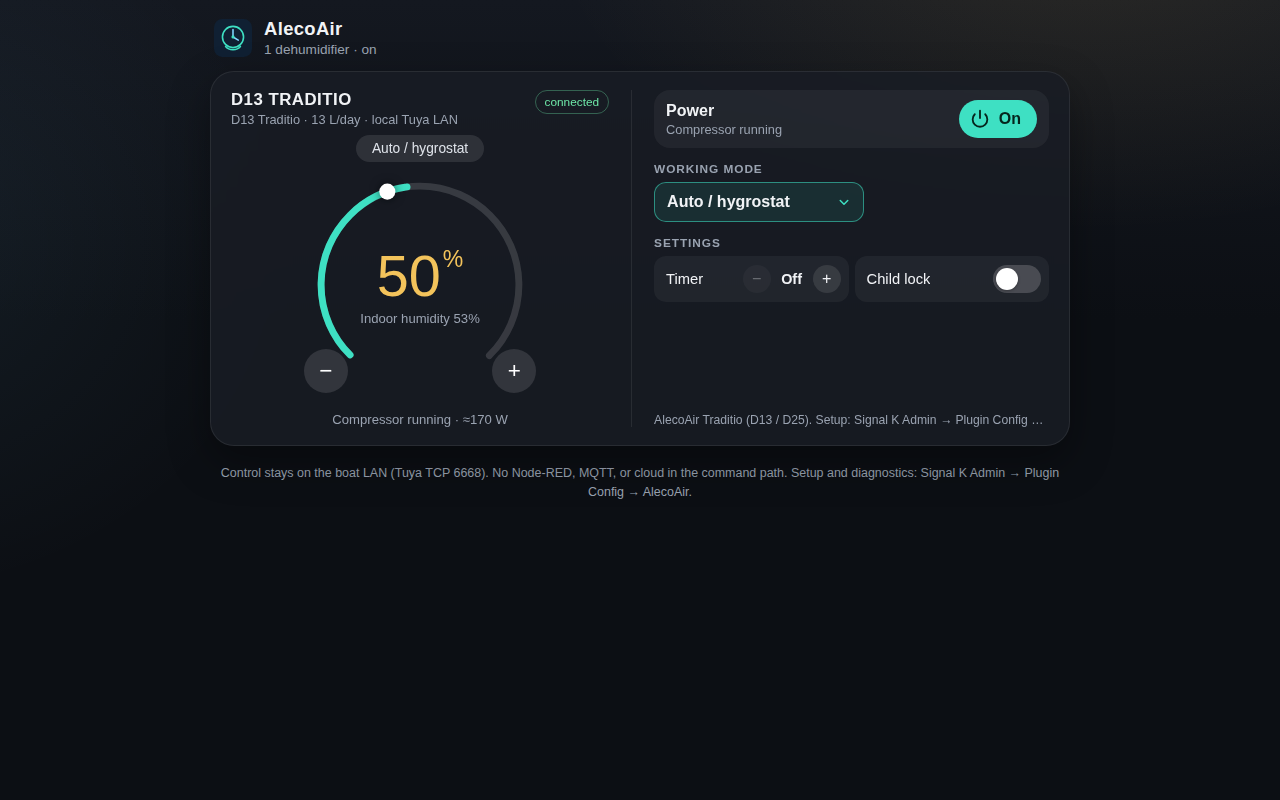
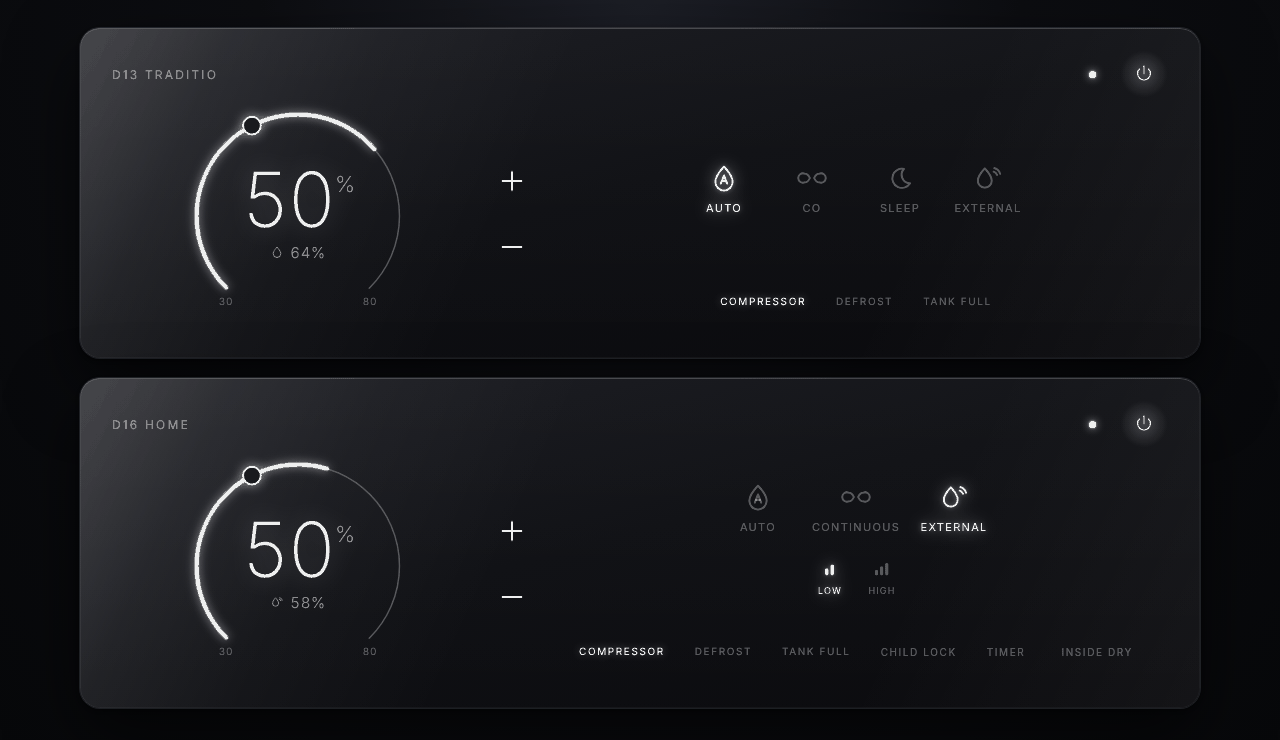
release: 0.0.4 (README, CHANGELOG, new screenshots, version 0.0.4)
- package.json, package-lock.json, openapi.json: 0.0.4
- CHANGELOG: 0.0.4 (2026-11-13), all changes since 0.0.3
- README: new card (gauge, -/+, mode buttons incl. External, status text,
  message line), External control (separate target, restart hand-back),
  Show child lock / timer, D13 off-timer without countdown
- Screenshots: WebApp desktop + phone, Admin setup + External control
- Admin: 'tap External in the mode buttons' instead of the old menu wording
- Comments/test name: no more references to the unpublished 0.1.0 drafts

diff --git a/public/remoteEntry.js b/public/remoteEntry.js
@@ -232,7 +232,7 @@
     function ExternalControl(props) {
       var d = props.device
       var ext = Object.assign({}, EXT_DEFAULTS, d.externalControl || {})
-      // One sensor per unit; a list from an earlier 0.1.0 draft keeps its first path.
+      // One sensor per unit; a list from an earlier development draft keeps its first path.
       if (!ext.humidityPath && Array.isArray(ext.humidityPaths)) ext.humidityPath = ext.humidityPaths.filter(Boolean)[0] || ''
       delete ext.humidityPaths
       delete ext.combine
@@ -251,7 +251,7 @@
         h('div', { className: 'fw-semibold small mb-1' }, 'External control'),
         h('p', { className: 'small text-muted mb-2' },
           'Drive this unit from another Signal K humidity sensor: the plugin puts the unit in its continuous mode (CO on the Traditio) and switches it on and off around the target you set in the WebApp. ',
-          'Allow it here, then pick \u201cAuto / external sensor\u201d in the unit\u2019s working-mode menu in the WebApp (or PUT ', h('code', null, d.paths.prefix + '.control.mode'), ' = external). Picking any other mode returns to the unit\u2019s own control.'),
+          'Allow it here, then tap \u201cExternal\u201d in the unit\u2019s mode buttons in the WebApp (or PUT ', h('code', null, d.paths.prefix + '.control.mode'), ' = external). Picking any other mode returns to the unit\u2019s own control.'),
         h(Check, { id: 'ext-' + d.key, label: 'Allow external control', checked: ext.enabled, onChange: function (v) { set('enabled', v) } }),
         ctl && ctl.configured ? h('div', { className: 'small mb-2 ' + (ctl.mode === 'external' ? 'text-success' : 'text-muted') },
           'Now: ', ctl.mode === 'external' ? 'external' : 'unit hygrostat',

diff --git a/plugin/control.js b/plugin/control.js
@@ -61,7 +61,7 @@ function cleanPath(p) {
 /** Normalize the per-device "External control" options. */
 function normalizeControlConfig(raw) {
   const c = raw && typeof raw === 'object' ? raw : {}
-  // One sensor per unit. Older 0.1.0 drafts kept a list (humidityPaths): keep its first path.
+  // One sensor per unit. Earlier development drafts kept a list (humidityPaths): keep its first path.
   let humidityPath = cleanPath(c.humidityPath)
   if (!humidityPath) {
     const list = Array.isArray(c.humidityPaths) ? c.humidityPaths : String(c.humidityPaths || '').split(',')
@@ -238,7 +238,7 @@ class ExternalController {
     return this.target
   }
 
-  /** Keep a persisted target on the unit's step and range (e.g. one saved by 0.1.0 before snapping). */
+  /** Keep a persisted target on the unit's step and range (e.g. one saved by an earlier draft before snapping). */
   snapTarget(unit) {
     if (this.target === null) return
     const next = this.snapValue(this.target, unit)

diff --git a/test/control.test.js b/test/control.test.js
@@ -432,7 +432,7 @@ test('restart: the controller\'s power choice and last switch time are persisted
   assert.equal(r.tick().status.state, 'waiting', 'minimum off time counts from the switch before the restart')
 })
 
-test('persisted state from 0.1.0 without power: the unit\'s current power is kept', () => {
+test('persisted state from an earlier draft without power: the unit\'s current power is kept', () => {
   const r = harness({}, { mode: 'external', target: 50, saved: { mode: 'auto', targetHumidity: 50 } }, { mode: 'continuous', targetHumidity: 25, power: true })
   r.humidity(50)
   assert.deepEqual(r.tick().commands, [])

diff --git a/README.md b/README.md
@@ -7,7 +7,7 @@ Signal K plugin and WebApp for AlecoAir Wi-Fi dehumidifiers over Tuya LAN: sever
 - **Setup only in Signal K Admin**, in the plugin's own configurator: **Apps & Plugins → Configuration → AlecoAir dehumidifiers**.
 - **The WebApp is for use only**: control and monitoring at `http://<signalk>:3000/signalk-alecoair/`.
 
-> Version 0.1.0 (unreleased), an early release: only the D13 Traditio has been verified on a real unit. Pure Node.js: no Python or other system packages.
+> Version 0.0.4, an early release: only the D13 Traditio has been verified on a real unit. Pure Node.js: no Python or other system packages.
 
 - **External sensor control** (optional, per unit): the plugin can drive a unit from another Signal K humidity sensor, with its own target, hysteresis and minimum on/off times. See [External sensor control](#external-sensor-control).
 
@@ -20,9 +20,13 @@ This plugin was developed with Grok Bot.
 
 The WebApp is for day-to-day control. All setup is in Signal K Admin.
 
-![AlecoAir WebApp](./docs/screenshots/webapp.png)
+![AlecoAir WebApp on a desktop](./docs/screenshots/webapp.png)
+
+<img src="./docs/screenshots/webapp-phone.png" alt="AlecoAir WebApp on a phone" width="320">
 
 ![Plugin setup in Signal K Admin](./docs/screenshots/admin-setup.png)
+
+![External control and WebApp options of a unit in Signal K Admin](./docs/screenshots/admin-external.png)
 
 ## Supported models
 
@@ -115,10 +119,16 @@ The setup panel is a Signal K plugin configurator (`signalk-plugin-configurator`
 
 Open `http://<signalk>:3000/signalk-alecoair/` (also listed under **Webapps** in Signal K Admin). Every configured unit gets its own card, stacked one under another; `?device=<key>` scrolls to a given unit. The look is inspired by the AlecoAir app, not a copy of it.
 
-Each card shows the unit's real modes for its profile and only the controls the unit actually reports: power, working mode, target humidity, timer, child lock and so on. The D13 Traditio has no fan control, so none is shown for it. Child lock and timer are hidden on the card by default; tick **Show child lock in UI** / **Show timer in UI** for a unit in Admin → Plugin Config → AlecoAir to show them. These checkboxes only change the WebApp: the Signal K paths and PUT handlers stay as they are.
+Each card shows the unit's real modes for its profile and only the controls the unit actually reports. The D13 Traditio has no fan control, so none is shown for it.
 
-- **Phone / narrow screens (< 960 px):** a compact card per unit with the mode, the humidity ring and −/+ for the target, and a bottom bar (Power, Mode, Fan if present, Settings). Mode, Fan and Settings open a bottom sheet.
-- **Desktop (≥ 960 px):** one wide card per unit, stacked vertically. Left: name, status, humidity ring and −/+. Right: Power, the working mode as a dropdown (with fan speed on the same row if the unit has a fan) and the settings in a fixed two-column area. All cards have the same height whatever the model, so units line up and an odd number of units leaves no stray card. Alerts (tank full, defrost, unit not responding) can still make a card taller while they are active.
+- **Gauge (left):** a 270° arc. The thin track is the unit's range (30–80% on the Traditio), the brighter arc goes up to the current humidity, and the knob is the target. Tap or drag on the arc, or use **−** / **+** next to it, to change the target in the unit's own steps (5%). The big number in the centre is the target (`CO` in continuous mode); the small one below it is the current humidity, with a droplet for the unit's own sensor or an antenna for the external sensor.
+- **Working modes (right):** one icon button per mode, e.g. **Auto**, **CO**, **Sleep** and, when external control is allowed for the unit, **External**. The fan speed (**Low** / **High**) sits under the modes if the unit has a fan.
+- **Status:** text labels under the modes: **Compressor**, **Defrost**, **Tank full** (red when full) and, where the unit has them, **Sleep** and **Inside dry**. Bright = active, dim = inactive. **Child lock** and **Timer** are hidden by default; tick **Show child lock in UI** / **Show timer in UI** for a unit in Admin → Plugin Config → AlecoAir to show them. These checkboxes only change the WebApp: the Signal K paths and PUT handlers stay as they are. Child lock, timer, sleep and inside dry can be tapped; the timer opens a small − / + stepper.
+- **Message line:** under the status, one line per card for errors, an unreachable unit, a full tank, defrost or an external-sensor warning. It never moves the layout: one line on a desktop (the full text is in the tooltip), two lines on a phone. If the WebApp loses the plugin, a toast appears at the top of the page.
+- **Power** is the button at the top right of the card; the dot next to it is the LAN connection (white = connected, red = not answering).
+- **Desktop:** the gauge is at the same place on every card, the modes are centred in the rest of the card, and the status line is level with the bottom of the gauge, so cards of different models line up. **Phone (< 760 px):** gauge, − / +, modes, fan, status and message are stacked and centred.
+
+Cards are built once and only updated on refresh (every 2 s), so nothing flickers. A tap shows at once; − / + and the arc send one command once the taps stop.
 
 UI labels are in English.
 
@@ -134,8 +144,9 @@ How it works:
 - **Change on the unit:** if the unit's power, mode or target is changed by anything other than the controller (the unit's buttons, the AlecoAir app, the WebApp power button or −/+ of the unit, a Signal K PUT), external control switches off at once. The unit is left exactly as it is: nothing is restored and no command is sent, and the WebApp shows the unit's real mode again. Pick **Auto / external sensor** again to resume.
 - **Sensor lost:** when no fresh value has arrived for 5 min (adjustable), the plugin either gives the unit back its own hygrostat (previous mode and target, power on; the default) or switches it off. It takes over again when the sensor is back.
 - **Temperature (optional):** with a temperature path, the unit is not started below a minimum temperature (default 5 °C) and is stopped when it gets that cold; it restarts 1 °C above the minimum.
+- **Separate target.** External control has its own target, shown on the gauge while **External** is selected. It is kept between sessions and is independent of the unit's own hygrostat target, which comes back when you pick Auto again.
 - After a restart the controller picks up where it was: same target, the same on/off choice (the unit is put back to it if the plugin stop restored the hygrostat) and the minimum on/off time counted from the last switch.
-- Switching external control off (or turning it off in Admin) restores the unit's own mode and target and switches it on. When the plugin stops while external control is on, the "sensor lost" choice is applied; after a restart, external control resumes with the same target.
+- Switching external control off (or turning it off in Admin) restores the unit's own mode and target and switches it on. When the plugin stops while external control is on (a Signal K restart or a plugin update), the "sensor lost" choice is applied, so with the default the unit briefly runs on its own hygrostat; after the restart, external control resumes with the same target and on/off choice within a few seconds.
 - A profile without a continuous mode (D16 Purify) uses the lowest hygrostat target the unit accepts plus power on/off instead. Set the external target above that minimum.
 - Values this plugin publishes itself are never used as the external sensor, so a unit's humidity published as cabin humidity cannot feed back.
 
@@ -145,7 +156,7 @@ Setting it up:
 2. **Humidity path**: pick the sensor's Signal K path from the list (paths with "humidity" that the server has seen, with their current value and source) or type one, e.g. `environment.inside.relativeHumidity`. Signal K publishes relative humidity as a ratio 0–1; a percentage (any value above 1.5) is detected too. Each unit uses exactly one sensor; several units may use the same one.
 3. Optional: **Temperature path** (Kelvin, as Signal K publishes it) and the minimum temperature.
 4. Adjust the hysteresis, minimum times, the stale timeout and what to do when the sensor is lost, or keep the defaults. **Save configuration**.
-5. In the WebApp, pick **Auto / external sensor** in the unit's working-mode menu (the Mode sheet on a phone, the working-mode dropdown on a desktop). The entry is there only while external control is allowed in Admin. While it is on, the menu shows it as the selected mode, even though the unit itself is in CO. Picking any other mode (Auto / hygrostat, Continuous, Sleep) leaves external control and sets that mode with the remembered target, power on. The ring shows the external humidity (the unit's own reading is shown below it, smaller), −/+ change the controller target in the unit's own hygrostat steps and range (5% steps, 30–80% on the Traditio; a target set over the API or Signal K is snapped the same way), and a status line says what the controller is doing: running, idle, waiting (minimum time), defrost, sensor missing, too cold or tank full. Hovering the status line shows the reason.
+5. In the WebApp, tap **External** in the unit's mode buttons. The button is there only while external control is allowed in Admin. While it is on, **External** is the lit mode, even though the unit itself is in CO. Tapping any other mode (Auto, CO, Sleep) leaves external control and sets that mode with the unit's remembered hygrostat target, power on. The gauge shows the external humidity (antenna icon); − / + and the arc change the controller target in the unit's own hygrostat steps and range (5% steps, 30–80% on the Traditio; a target set over the API or Signal K is snapped the same way). The **External** button's tooltip says what the controller is doing (running, idle, waiting for the minimum time, defrost, sensor missing, too cold, tank full) and why; problems such as a missing sensor also appear on the card's message line.
 
 The same can be done from Signal K: `PUT <prefix>.control.mode` = `external` or `internal`, and `PUT <prefix>.control.target` (ratio, e.g. `0.55`). `PUT <prefix>.mode` = `external` also switches it on, and a PUT of any other mode on `<prefix>.mode` leaves it. The published `<prefix>.mode` stays the unit's real mode (`continuous` while external control drives it); `<prefix>.control.mode` says whether external control is on.
 
@@ -185,6 +196,8 @@ D13 Traditio talks Tuya protocol **3.5** on the LAN. The cloud often returns a W
 The live D13 reports only these seven DPs. The Traditio profile also maps fan speed to DP 4 (present on the D25 per tuya-local), but it stays hidden on a D13 because the D13 never reports DP 4.
 
 Manual defaults: Manual + hygrostat, CO = continuous via target `25`, restart threshold **target + 1% RH**, 2.3 L tank, 145 / 170 / 195 W.
+
+**Timer (DP 17).** On the D13 the timer is an **off-timer**: `1h`…`24h` switches the unit off after that many hours, whatever the humidity, and `cancel` clears it (manual: 0–24 h, 0 = off; a power cut resets it). The plugin writes the value as it is and adds no logic of its own. The D13 has no countdown DP, so `timerRemaining` is only the set hours × 60 min, not a live countdown. With external control on, the timer switching the unit off counts as a change on the unit and ends external control (the unit stays off, in CO). Whether switching the unit off also clears its timer has not been verified. This is why the timer is hidden on the card by default.
 
 ## Security notes
 

diff --git a/CHANGELOG.md b/CHANGELOG.md
@@ -2,13 +2,32 @@
 
 All notable changes to this project are documented in this file.
 
-## 0.1.0 (unreleased)
+## 0.0.4 (2026-11-13)
 
-- Admin, per unit: **Show child lock in UI** and **Show timer in UI**, both off by default. When off, the WebApp card hides the CHILD LOCK / TIMER labels (and the timer stepper). Signal K data and PUT are not affected.
-- External sensor control, per unit and off by default: the plugin can drive a unit from another Signal K humidity sensor (one sensor path per unit; several units may share a sensor). The unit is put in its continuous mode (CO on the Traditio) and switched on at target + 3% and off at target − 2%, with minimum on and off times (10 min each). No power-off during defrost; a full tank is left to the firmware. A change on the unit that the controller did not make (buttons, AlecoAir app, WebApp, Signal K PUT) switches external control off at once and leaves the unit as it is; pick the external mode again to resume. When the sensor goes stale, the unit gets its own hygrostat back (or is switched off, if you choose). Optional temperature path: the unit is not started below a minimum temperature (default 5 °C). Everything is adjustable in Admin → External control, with picklists of the server's humidity and temperature paths.
-- WebApp: when external control is allowed for a unit, its working-mode menu gets one more entry, **Auto / external sensor** (shown as the selected mode while it is on, although the unit itself is in CO). Picking any other mode leaves external control and sets that mode. While it is on, the ring shows the external humidity, −/+ change the controller target in the unit's hygrostat steps (5%, 30–80% on the Traditio) and a status line shows what the controller is doing. Targets set over the API or Signal K are snapped to the same steps.
-- Signal K: `<prefix>.control.mode` and `<prefix>.control.target` (PUT), plus `control.state`, `control.reason`, `control.sourceHumidity` and `control.sourceTemperature`. REST: `POST /plugins/signalk-alecoair/devices/<key>/control`.
+### External sensor control
+
+- New, per unit and off by default: the plugin can drive a unit from another Signal K humidity sensor, for example a BME280 in the saloon. One sensor path per unit; several units may share a sensor. Set it up in Admin → **External control**, with picklists of the server's humidity and temperature paths.
+- The unit is put in its continuous mode (CO on the Traditio) and switched on at target + 3% and off at target − 2%, with minimum on and off times (10 min each). All of these are adjustable. A profile without a continuous mode uses its lowest hygrostat target plus power on/off.
+- No power-off during defrost. A full tank is left to the firmware.
+- A change on the unit that the controller did not make (the unit's buttons, the AlecoAir app, the WebApp power button, a Signal K PUT) switches external control off at once and leaves the unit as it is. Pick **External** again to resume. The manual-change pause of the first drafts is gone.
+- When the sensor goes stale (5 min), the unit gets its own hygrostat back (or is switched off, if you choose). Optional temperature path: the unit is not started below a minimum temperature (default 5 °C).
+- The External target is separate from the unit's own hygrostat target. It is kept between sessions and moves in the unit's hygrostat steps (5%, 30–80% on the Traditio); targets set over the API or Signal K are snapped the same way.
+- After a restart the controller resumes with the same target, the same on/off choice and the minimum times counted from the last switch.
+- Signal K: `<prefix>.control.mode` and `<prefix>.control.target` (PUT), plus `control.state`, `control.reason`, `control.sourceHumidity` and `control.sourceTemperature`. REST: `POST /plugins/signalk-alecoair/devices/<key>/control`. `PUT <prefix>.mode` = `external` switches it on too.
+- A humidity-path list saved by an earlier development draft is read as its first path.
 - Test hook for a simulated sensor: `plugin-config-data/signalk-alecoair.test-sensor.json` publishes `environment.inside.test.*` values while the file exists.
+
+### WebApp
+
+- New dark-glass design: one card per unit, the same on every model.
+  - Desktop: a 270° gauge on the left (a thin track, a brighter arc up to the current humidity, the knob on the target; tap or drag to set it) with the big target and the current humidity in its centre, and − / + next to it.
+  - On the right: the working modes as icon buttons (**External** included when it is allowed), the fan speed under them if the unit has one, and the status as text labels (Compressor, Defrost, Tank full in red, Child lock, Timer, Sleep, Inside dry). Lit = active, dim = inactive.
+  - The gauge sits at the same place on every card. The modes are centred in the rest of the card, and the status line is level with the bottom of the gauge.
+  - Phone: gauge, − / +, modes, fan and status stacked and centred.
+- One message line per card (errors, offline, tank full, defrost, sensor warnings). It never moves the layout: one line with the full text in the tooltip on desktop, two lines on a phone. A lost connection to the plugin shows as a toast at the top of the page, also when the server answers with an HTTP error.
+- External: the gauge shows the external humidity (antenna icon) and −/+ change the controller target. The controller's state is in the External button's tooltip; warnings go to the message line.
+- Admin, per unit: **Show child lock in UI** and **Show timer in UI**, both off by default. When off, the card hides those labels (and the timer stepper). Signal K data and PUT are not affected.
+- Cards are built once and only updated on refresh, so nothing flickers and the focus stays put. A tap shows at once, and −/+ send one command once the taps stop.
 
 ## 0.0.3
 
